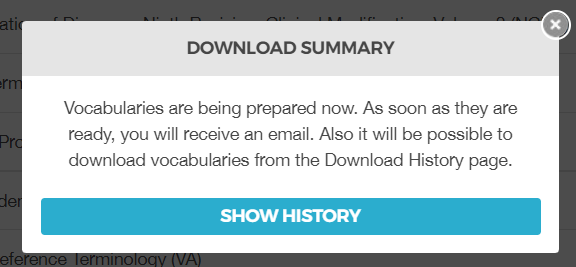
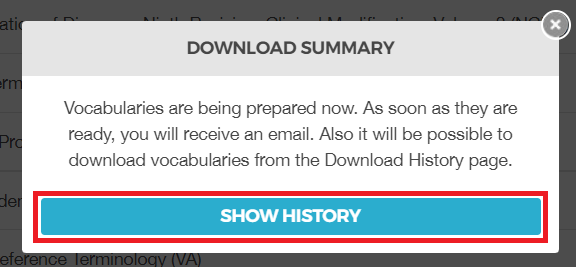
20221219_update

Changed region(s): [[0.0312, 0.6891, 0.9688, 0.9288]]

diff --git a/Files/Usagi_setup.html b/Files/Usagi_setup.html
@@ -463,7 +463,7 @@ html{
 <br>
 <hr>
 <h1 id="21athena%E3%81%B8%E3%81%AE%E4%BC%9A%E5%93%A1%E7%99%BB%E9%8C%B2"><strong>2．1．Athenaへの会員登録</strong></h1>
-<p>GithubのOHDSI/Usagiページの［Getting Started］項目内の<a href="https://athena.ohdsi.org/search-terms/start" target="_blank" rel="nofollow noopener"><ins>Athena</ins></a>（赤枠）をクリックします。</p>
+<p><a href="https://github.com/OHDSI/Usagi" target="_blank" rel="nofollow noopener"><ins>GithubのOHDSI/Usagi</ins></a>ページの［Getting Started］項目内の<a href="https://athena.ohdsi.org/search-terms/start" target="_blank" rel="nofollow noopener"><ins>Athena</ins></a>（赤枠）をクリックします。</p>
 <p><img src="./Usagi/image/image6.png" alt=""></p>
 <br><br>
 <p>右上の［LOGIN］をクリックします。<br>
@@ -477,15 +477,14 @@ Athenaを初めて使用する際には会員登録が必要です。</p>
 <br>
 <hr>
 <h1 id="22usagi%E3%81%AE%E3%82%A4%E3%83%B3%E3%82%B9%E3%83%88%E3%83%BC%E3%83%AB"><strong>2．2．Usagiのインストール</strong></h1>
-<p>GithubのOHDSI/Usagiページの［Getting Started］項目内の<a href="https://github.com/OHDSI/Usagi/releases" target="_blank" rel="nofollow noopener"><ins>Releases</ins></a>（赤枠）をクリックします。</p>
+<p><a href="https://github.com/OHDSI/Usagi" target="_blank" rel="nofollow noopener"><ins>GithubのOHDSI/Usagi</ins></a>ページの［Getting Started］項目内の<a href="https://github.com/OHDSI/Usagi/releases" target="_blank" rel="nofollow noopener"><ins>Releases</ins></a>（赤枠）をクリックします。</p>
 <p><img src="./Usagi/image/image7.png" alt=""></p>
 <br>
 <p>Usagi_v1.4.3.jar（赤枠）をクリックし、ファイルをダウンロードします。<br>
 （バージョンが異なる場合、参考資料とファイル名も異なるため注意してください。）</p>
 <p><img src="./Usagi/image/image8.png" alt=""></p>
 <br>
-<p>ダウンロードしたファイルをクリックした後、<br>
-「この種類のファイルはコンピューターに損害を与える可能性があります。」と表示されますが、「保存」をクリックし、任意の場所に保存します。</p>
+<p>ダウンロードしたファイルをクリックした後、「この種類のファイルはコンピューターに損害を与える可能性があります。」と表示されますが、「保存」をクリックし、任意の場所に保存します。</p>
 <p><img src="./Usagi/image/image9.png" alt=""></p>
 <br>
 <hr>
@@ -884,15 +883,26 @@ Athenaを初めて使用する際には会員登録が必要です。</p>
 <br>
 <p>［DOWNLOAD SUMMARY］が表示されるので、［name bundle］欄に任意の名前を入力してください。<br>
 （［name bundle］に入力した名前は、［DOWNLOAD HISTORY］に表示されるファイル名になります）<br>
-［Notify me about changes in these vocabularies］にチェックを入れて、［DOWNLOAD］をクリックします。<br>
-vocabularyが準備中であるというメッセージが表示されます。</p>
+［Notify me about changes in these vocabularies］にチェックを入れて、［DOWNLOAD］をクリックします。</p>
 <p><img src="./Usagi/image/image17.png" alt="" width="600px"><br>
-<img src="./Usagi/image/image18.png" alt="" width="500px"><br>
 <em>Odysseus Data Services, Inc. 「Athena」</em></p>
 <br>
-<p>準備が完了すると、Athenaからメールが届きます。（ダウンロードクリックから数分程度かかります）<br>
-メール受領後、Athenaの画面右上の［SHOW HISTORY］をクリックし、［name bundle］で指定した名称の項目の［DOWNLOAD］をクリックするとvocabularyがダウンロードされます。</p>
-<p><img src="./Usagi/image/image19.png" alt="" width="1200px"><br>
+<p>vocabularyのダウンロードが準備中であるというメッセージが表示されます。<br>
+[SHOW HISTORY]をクリックします。</p>
+<img src="./Usagi/image/image18.png" alt="" width="500px"><br>
+<p><em>Odysseus Data Services, Inc. 「Athena」</em></p>
+<br>
+<p>ダウンロードの準備が完了するまで状態が「PENDING」となります。</p>
+<img src="./Usagi/image/image20.png" alt="" width="1200px"><br>
+<em>Odysseus Data Services, Inc. 「Athena」</em></p>
+<br>
+<p>ダウンロードの準備が完了すると、Athenaからメールが届きます。（ダウンロードクリックから数分程度かかります）<br>
+メール受領後、Athena画面右上の［REFRESH］をクリックします。</p>
+<p><img src="./Usagi/image/image21.png" alt="" width="1200px"><br>
+<em>Odysseus Data Services, Inc. 「Athena」</em></p>
+<br>
+<p>［name bundle］で指定した名称の項目の［DOWNLOAD］をクリックするとvocabularyがダウンロードされます。</p>
+<p><img src="./Usagi/image/image22.png" alt="" width="1200px"><br>
 <em>Odysseus Data Services, Inc. 「Athena」</em></p>
 <br>
 <p>ダウンロードしたvocabularyには下記のファイルが含まれています。<br>
